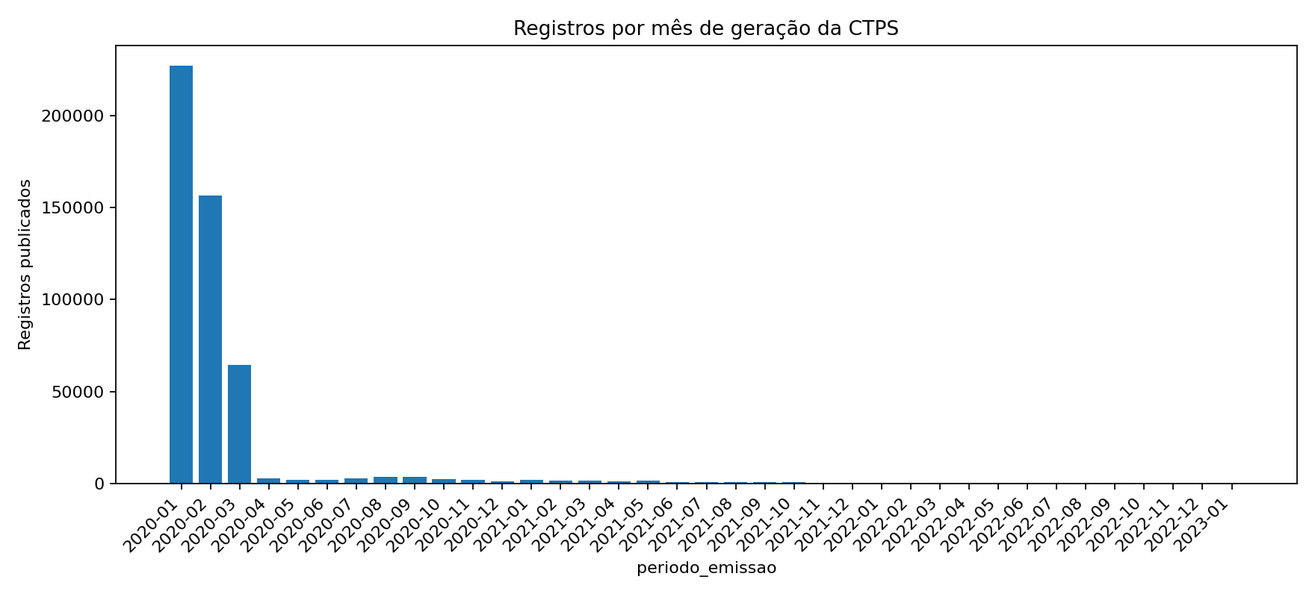
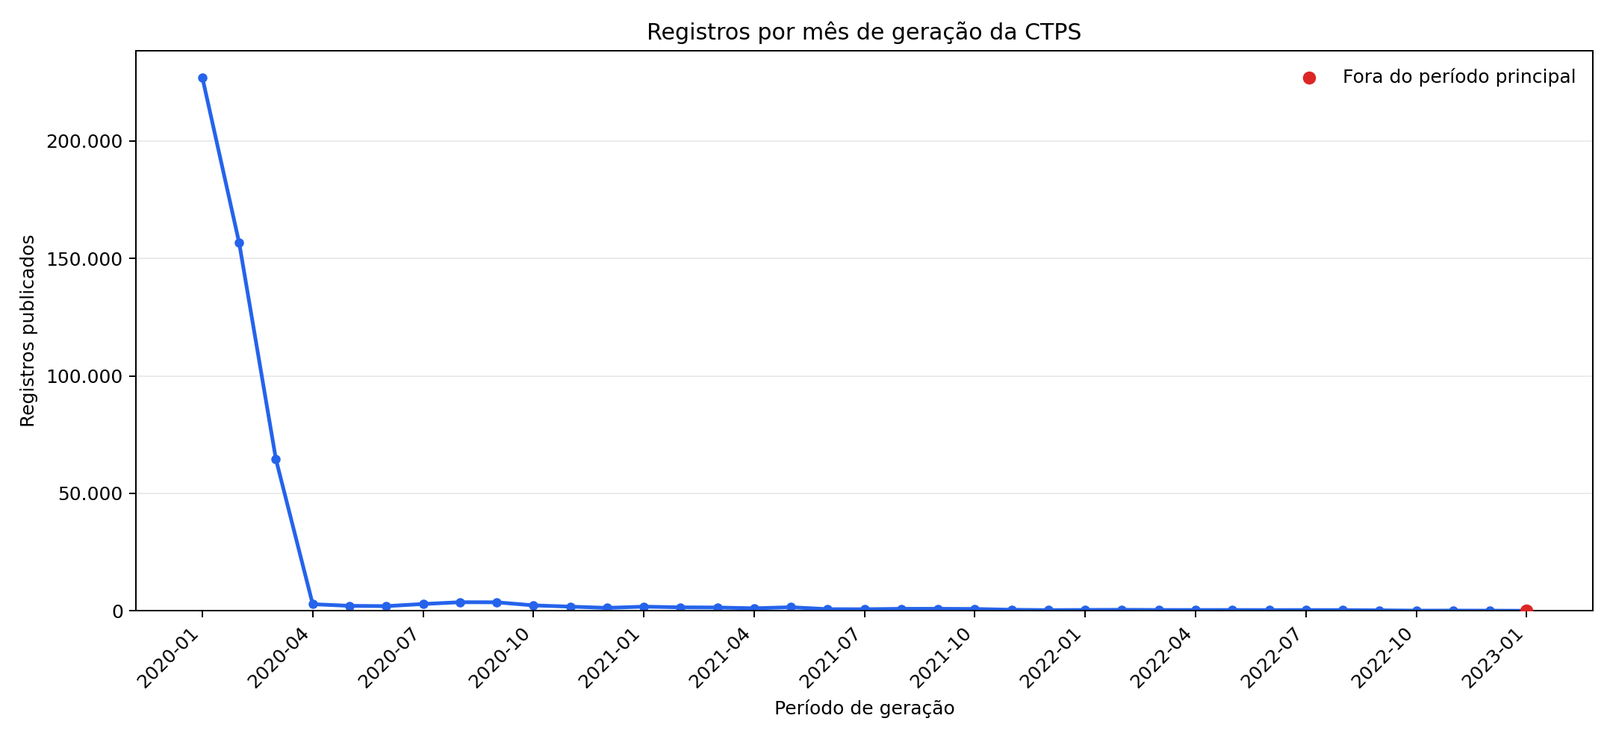
Finalizar apresentacao do portfolio CTPS e especificacao de BI

diff --git a/src/ctps_pipeline.py b/src/ctps_pipeline.py
@@ -7,8 +7,13 @@ import sqlite3
 import urllib.request
 from pathlib import Path
 
+import matplotlib
+
+# Os gráficos são exportados para arquivos, sem dependência de interface gráfica.
+matplotlib.use("Agg")
 import matplotlib.pyplot as plt
 import pandas as pd
+from matplotlib.ticker import FuncFormatter
 
 SOURCE_FILES = {
     "dados_ctps_2020-jan.xlsx": "https://www.gov.br/trabalho-e-emprego/pt-br/servicos/trabalhador/carteira-de-trabalho/ctps-arquivos/dados_ctps_2020-jan.xlsx",
@@ -167,46 +172,87 @@ def make_outputs(clean: pd.DataFrame, output_dir: Path) -> None:
     by_protocol.to_csv(tables / "emissoes_por_protocolo.csv", index=False)
     out_of_scope = clean.loc[out_of_range_mask(clean), ["arquivo_fonte"] + EXPECTED_COLUMNS].copy()
     out_of_scope.to_csv(tables / "emissoes_fora_intervalo.csv", index=False)
-    chart_specs = [
-        (monthly, "emissoes_por_mes.png", "Registros por mês de geração da CTPS", "periodo_emissao"),
-        (by_state.head(10), "top_10_ufs.png", "10 UFs com mais registros", "Sigla UF Órgão"),
-    ]
-    for data, filename, title, x in chart_specs:
-        plt.figure(figsize=(11, 5))
-        plt.bar(data[x].astype(str), data["registros"])
-        plt.title(title)
-        plt.xlabel(x)
-        plt.ylabel("Registros publicados")
-        plt.xticks(rotation=45, ha="right")
-        plt.tight_layout()
-        plt.savefig(figures / filename, dpi=160)
-        plt.close()
-    lines = ["# Observações calculadas", "", "Os números abaixo foram gerados pelo pipeline; são descrições do conjunto publicado e não evidenciam causalidade ou impacto.", ""]
+    number_formatter = FuncFormatter(lambda value, _: f"{int(value):,}".replace(",", "."))
+    plt.style.use("default")
+
+    monthly_periods = pd.to_datetime(monthly["periodo_emissao"], format="%Y-%m", errors="coerce").dt.to_period("M")
+    monthly_x = list(range(len(monthly)))
+    fig, ax = plt.subplots(figsize=(12, 5.5))
+    ax.plot(monthly_x, monthly["registros"], color="#2563eb", marker="o", linewidth=2, markersize=4)
+    out_of_scope_months = ~monthly_periods.between(EXPECTED_PERIOD_START, EXPECTED_PERIOD_END)
+    if out_of_scope_months.any():
+        ax.scatter(
+            [monthly_x[index] for index, value in enumerate(out_of_scope_months) if value],
+            monthly.loc[out_of_scope_months, "registros"],
+            color="#dc2626", zorder=3, label="Fora do período principal",
+        )
+    tick_positions = list(range(0, len(monthly), 3))
+    if monthly_x and monthly_x[-1] not in tick_positions:
+        tick_positions.append(monthly_x[-1])
+    ax.set_xticks(tick_positions)
+    ax.set_xticklabels(monthly.iloc[tick_positions]["periodo_emissao"], rotation=45, ha="right")
+    ax.set_title("Registros por mês de geração da CTPS")
+    ax.set_xlabel("Período de geração")
+    ax.set_ylabel("Registros publicados")
+    ax.set_ylim(bottom=0)
+    ax.yaxis.set_major_formatter(number_formatter)
+    ax.grid(axis="y", alpha=0.25)
+    ax.grid(axis="x", visible=False)
+    if out_of_scope_months.any():
+        ax.legend(frameon=False, loc="upper right")
+    fig.tight_layout()
+    fig.savefig(figures / "emissoes_por_mes.png", dpi=180)
+    plt.close(fig)
+
+    top_states = by_state.head(10).sort_values("registros")
+    fig, ax = plt.subplots(figsize=(10, 5.5))
+    bars = ax.barh(top_states["Sigla UF Órgão"], top_states["registros"], color="#2563eb")
+    ax.bar_label(bars, labels=[f"{int(value):,}".replace(",", ".") for value in top_states["registros"]], padding=4, fontsize=8)
+    ax.set_title("10 UFs com mais registros")
+    ax.set_xlabel("Registros publicados")
+    ax.set_ylabel("UF do órgão")
+    ax.xaxis.set_major_formatter(number_formatter)
+    ax.set_xlim(0, top_states["registros"].max() * 1.18 if not top_states.empty else 1)
+    ax.grid(axis="x", alpha=0.25)
+    ax.grid(axis="y", visible=False)
+    fig.tight_layout()
+    fig.savefig(figures / "top_10_ufs.png", dpi=180)
+    plt.close(fig)
+
+    lines = ["# Observações calculadas", "", "Os números abaixo foram gerados pelo pipeline. São achados descritivos do conjunto publicado; não evidenciam causalidade ou impacto.", "", "## Achados", ""]
     total = len(clean)
     lines.append(f"- Registros preservados: **{total:,}**.")
     lines.append(f"- Registros com o mesmo perfil em todas as colunas de negócio: **{int(clean.duplicated(subset=EXPECTED_COLUMNS).sum()):,}**; eles foram preservados por falta de identificador de atendimento.")
     if not by_state.empty:
         top_uf = by_state.iloc[0]
         top_five_share = by_state.head(5)["registros"].sum() / total
-        lines.append(f"- UF com maior volume no conjunto: **{top_uf['Sigla UF Órgão']}**, com **{int(top_uf['registros']):,}** registros ({int(top_uf['registros']) / total:.1%} do total).")
-        lines.append(f"- As cinco UFs com mais registros concentram **{int(by_state.head(5)['registros'].sum()):,}** linhas ({top_five_share:.1%} do total). Isso descreve a distribuição da publicação, sem indicar causa para a concentração.")
+        lines.append(f"- **Distribuição regional:** {top_uf['Sigla UF Órgão']} concentra **{int(top_uf['registros']):,}** registros ({int(top_uf['registros']) / total:.1%} do total). As cinco UFs com mais registros somam **{int(by_state.head(5)['registros'].sum()):,}** linhas ({top_five_share:.1%}).")
     if not by_protocol.empty:
-        lines.append(f"- Tipo de protocolo mais frequente: **{by_protocol.iloc[0]['Tipo Protocolo']}**, com **{int(by_protocol.iloc[0]['registros']):,}** registros.")
+        lines.append(f"- **Tipo de protocolo:** {by_protocol.iloc[0]['Tipo Protocolo']} é o tipo mais frequente, com **{int(by_protocol.iloc[0]['registros']):,}** registros.")
         for protocol in ["1ª Via", "2ª Via"]:
             match = by_protocol.loc[by_protocol["Tipo Protocolo"].eq(protocol), "registros"]
             if not match.empty:
                 count = int(match.iloc[0])
-                lines.append(f"- **{protocol}** representa **{count:,}** registros ({count / total:.1%}).")
-    monthly_periods = pd.to_datetime(monthly["periodo_emissao"], format="%Y-%m", errors="coerce").dt.to_period("M")
+                lines.append(f"  - {protocol}: **{count:,}** registros ({count / total:.1%}).")
     in_scope_monthly = monthly.loc[monthly_periods.between(EXPECTED_PERIOD_START, EXPECTED_PERIOD_END)].copy()
     if not in_scope_monthly.empty:
         first = in_scope_monthly.iloc[0]
         last = in_scope_monthly.iloc[-1]
         peak = in_scope_monthly.loc[in_scope_monthly["registros"].idxmax()]
-        lines.append(f"- No período de análise, o volume observado foi de **{int(first['registros']):,}** em **{first['periodo_emissao']}** e **{int(last['registros']):,}** em **{last['periodo_emissao']}**; o pico mensal foi **{peak['periodo_emissao']}**, com **{int(peak['registros']):,}** registros.")
+        lines.append(f"- **Evolução observada:** o volume foi de **{int(first['registros']):,}** registros em **{first['periodo_emissao']}** e **{int(last['registros']):,}** em **{last['periodo_emissao']}**; o pico mensal foi **{peak['periodo_emissao']}**, com **{int(peak['registros']):,}** registros.")
+        yearly = in_scope_monthly.groupby(in_scope_monthly["periodo_emissao"].str[:4])["registros"].sum()
+        lines.append("- **Comparação anual por mês de geração:** " + "; ".join(
+            f"{year}: **{int(count):,}** registros" for year, count in yearly.items()
+        ) + ". O registro fora do período principal não entra nesta comparação.")
+        if len(yearly) > 1 and yearly.iloc[0]:
+            change = (yearly.iloc[-1] / yearly.iloc[0] - 1) * 100
+            lines.append(f"- A variação de volume entre {yearly.index[0]} e {yearly.index[-1]} foi de **{change:.2f}%**. É uma comparação dos registros publicados, sem atribuição de causa.")
     if not out_of_scope.empty:
-        lines.append(f"- Há **{len(out_of_scope):,}** registro fora do intervalo de geração 2020-01 a 2022-12: `Data CTPS Gerada = 2023-01`, originado de `dados_ctps_2022.xlsx`. Ele foi preservado e está detalhado em `reports/tables/emissoes_fora_intervalo.csv`.")
-    lines.extend(["", "## Limitações", "", "As variações mensais e regionais são descritivas dos registros administrativos publicados. Não permitem inferir emprego, tamanho do mercado de trabalho, demanda causal ou desempenho de atendimento. `Data Protocolo` tem 15.017 registros anteriores a 2020, enquanto `Data CTPS Gerada` tem um registro em 2023-01; esses valores são preservados e reportados separadamente."])
+        occurrences = out_of_scope.groupby(["Data CTPS Gerada", "arquivo_fonte"]).size()
+        detail = "; ".join(f"`{period}` em `{source}`: {count}" for (period, source), count in occurrences.items())
+        lines.append(f"- **Qualidade de escopo:** **{len(out_of_scope):,}** registro(s) fora de {EXPECTED_PERIOD_START} a {EXPECTED_PERIOD_END}: {detail}. Preservados em [emissoes_fora_intervalo.csv](tables/emissoes_fora_intervalo.csv).")
+    protocol_before = int((clean[date_column_name("Data Protocolo")].dt.to_period("M") < EXPECTED_PERIOD_START).sum())
+    lines.extend(["", "## Possíveis interpretações e limites", "", "- Os resultados mostram como os registros administrativos publicados se distribuem por tempo, UF e protocolo. Não permitem explicar as causas das variações.", "- As mudanças mensais não devem ser interpretadas como evolução do emprego, do mercado de trabalho ou de demanda causal.", f"- `Data Protocolo` tem {protocol_before:,} registros anteriores ao período principal. Essa data histórica é distinta do mês de geração; as ocorrências foram preservadas e reportadas separadamente.", "- Totais e participações incluem todos os registros; apenas a comparação temporal principal usa 2020–2022. A UF é a do órgão emissor, não necessariamente a residência do titular."])
     (reports / "insights.md").write_text("\n".join(lines) + "\n", encoding="utf-8")
 
 

diff --git a/powerbi/PowerQuery.m b/powerbi/PowerQuery.m
@@ -1,5 +1,6 @@
 let
-    Source = Csv.Document(File.Contents("data/processed/ctps_emissoes.csv"), [Delimiter=",", Encoding=65001, QuoteStyle=QuoteStyle.Csv]),
+    // Crie o parâmetro de texto CaminhoCSV no Desktop com o caminho do CSV gerado.
+    Source = Csv.Document(File.Contents(CaminhoCSV), [Delimiter=",", Encoding=65001, QuoteStyle=QuoteStyle.Csv]),
     Headers = Table.PromoteHeaders(Source, [PromoteAllScalars=true]),
     Types = Table.TransformColumnTypes(Headers, {{"data_protocolo_date", type date}, {"data_ctps_gerada_date", type date}, {"data_emissão_date", type date}, {"data_nascimento_date", type date}, {"ano_emissao", Int64.Type}, {"mes_emissao", Int64.Type}, {"registro_id", type text}}, "en-US")
 in

diff --git a/tests/test_integration.py b/tests/test_integration.py
@@ -23,10 +23,10 @@ def test_pipeline_with_local_official_sources():
     if manifest_path is None:
         pytest.fail("Manifest local não encontrado ao lado das fontes oficiais.")
     validate_manifest(manifest_path, source_dir)
-    output_dir = Path.cwd() / ".pytest-local" / uuid4().hex / "processed"
+    output_dir = Path.cwd() / ".pytest-local" / uuid4().hex / "data" / "processed"
     try:
         report = run(source_dir, output_dir)
         assert report["input_rows"] == report["output_rows"]
         assert report["out_of_range_emission_records"] == 1
     finally:
-        shutil.rmtree(output_dir.parent, ignore_errors=True)
+        shutil.rmtree(output_dir.parent.parent, ignore_errors=True)

diff --git a/README.md b/README.md
@@ -1,59 +1,100 @@
 # Emissões de CTPS no Brasil — 2020 a 2022
 
-Análise exploratória das emissões de Carteira de Trabalho e Previdência Social (CTPS) disponibilizadas pelo Ministério do Trabalho e Emprego (MTE).
+Análise descritiva e reproduzível dos registros públicos de emissão de Carteira de Trabalho e Previdência Social (CTPS), publicada pelo Ministério do Trabalho e Emprego (MTE).
 
-O projeto foi reconstruído para responder perguntas descritivas sobre volume de emissões, distribuição regional, tipo de protocolo e perfil informado no atendimento. O foco é demonstrar um fluxo reproduzível com Python, pandas, SQL e Power BI.
+## Visão geral
 
-## Contexto e limites
+O projeto examina como os registros publicados se distribuem por mês, UF e tipo de protocolo. O fluxo permite conferir a qualidade dos dados e acompanhar a composição do volume registrado.
 
-As bases públicas registram atendimentos e emissões de CTPS física em arquivos mensais e anuais do MTE. Elas permitem observar a distribuição dos registros publicados na fonte, mas não representam diretamente contratações, desemprego ou toda a força de trabalho brasileira.
+- **Fonte:** [estatísticas oficiais da CTPS](https://www.gov.br/trabalho-e-emprego/pt-br/servicos/trabalhador/carteira-de-trabalho/estatisticas)
+- **Período principal:** `Data CTPS Gerada` entre `2020-01` e `2022-12`
+- **Registros preservados:** 485.430, sem remoção de linhas repetidas
+- **Tecnologias:** Python, pandas, matplotlib, SQLite, SQL e especificação de Power BI
 
-As perguntas do projeto são: como os registros se distribuem por mês de geração; quais estados e órgãos concentram mais registros; qual é a composição por primeira e segunda via; e como aparecem sexo, escolaridade e cidadania.
+## Principais resultados
 
-Fonte oficial: [página de estatísticas da CTPS do MTE](https://www.gov.br/trabalho-e-emprego/pt-br/servicos/trabalhador/carteira-de-trabalho/estatisticas).
+Os valores abaixo são calculados pelo pipeline e podem ser conferidos em [`reports/insights.md`](reports/insights.md) e nas tabelas geradas. Totais e participações incluem todos os arquivos, inclusive a ocorrência de janeiro de 2023.
 
-Os arquivos brutos não são versionados. O download é reproduzível e os checksums ficam registrados em `data/source_manifest.json`. O pipeline preserva as 485.430 linhas publicadas nos cinco arquivos. Linhas com o mesmo conjunto de atributos não são removidas automaticamente: sem identificador de atendimento não é possível afirmar que sejam duplicatas indevidas.
+- Foram preservados **485.430 registros** dos cinco arquivos oficiais.
+- **1ª Via:** 351.527 registros (**72,4%**); **2ª Via:** 133.903 (**27,6%**).
+- **MG** foi a UF com maior volume, com 81.791 registros (**16,8%**); as cinco UFs líderes somam 299.077 (**61,6%**).
+- O maior volume mensal ocorreu em **2020-01**, com 227.013 registros; em **2022-12** foram observados 62.
+- Existe **1 registro com `Data CTPS Gerada = 2023-01`** na fonte `dados_ctps_2022.xlsx`. Ele foi preservado e sinalizado como fora do período principal.
 
-O escopo temporal da série principal usa `Data CTPS Gerada` entre 2020-01 e 2022-12. A fonte `dados_ctps_2022.xlsx` contém uma linha com `Data CTPS Gerada = 2023-01` (linha 552 no arquivo oficial); ela foi preservada, sinalizada no relatório de qualidade e incluída em `reports/tables/emissoes_fora_intervalo.csv`. A linha registra protocolo e emissão em 2022-12, protocolo `2ª Via`, órgão `SRTE/AC - Rio Branco` e UF `AC`. Além disso, 15.017 registros têm `Data Protocolo` anterior a 2020, informação histórica do atendimento que não é usada para recortar a série de geração.
+## Visualizações
 
-## Estrutura
+### Evolução mensal
+
+![Registros por mês de geração da CTPS](reports/figures/emissoes_por_mes.png)
+
+### Distribuição por UF
+
+![Dez UFs com mais registros](reports/figures/top_10_ufs.png)
+
+## Pipeline
 
 ```text
-data/raw/                 # arquivos baixados; ignorados pelo Git
-data/processed/           # CSV, SQLite e relatório de qualidade gerados
-reports/figures/          # gráficos gerados
-reports/tables/           # tabelas agregadas geradas
-powerbi/                  # Power Query, medidas DAX e modelo
-scripts/download_source.py
-sql/analises.sql
-src/ctps_pipeline.py
-tests/test_pipeline.py       # testes unitários
-tests/test_integration.py    # teste opcional com fontes locais
+Fonte oficial
+    ↓
+Download e manifest SHA-256
+    ↓
+Validação de arquivos e esquema
+    ↓
+Transformação com pandas
+    ↓
+CSV processado e SQLite
+    ↓
+Consultas SQL e agregações
+    ↓
+Tabelas, gráficos e insights
+    ↓
+Especificação para Power BI
 ```
 
-## Como executar
+O código principal está em [`src/ctps_pipeline.py`](src/ctps_pipeline.py). As consultas analíticas estão em [`sql/analises.sql`](sql/analises.sql). O relatório de qualidade fica em `data/processed/quality_report.json` após a execução.
 
-Use Python 3.11 ou superior.
+## Decisões metodológicas
+
+- **Registros repetidos:** linhas com o mesmo conjunto de atributos de negócio foram preservadas. A fonte não fornece um identificador de atendimento ou de pessoa que permita classificá-las como duplicatas indevidas.
+- **Registro `2023-01`:** o valor existe em `dados_ctps_2022.xlsx`, com protocolo e emissão em `2022-12`. Foi mantido para não alterar a fonte silenciosamente e está detalhado em [`reports/tables/emissoes_fora_intervalo.csv`](reports/tables/emissoes_fora_intervalo.csv).
+- **Datas de protocolo:** 15.017 protocolos são anteriores a 2020. Eles representam histórico do atendimento e não são usados para recortar a série principal, baseada em `Data CTPS Gerada`.
+- **Interpretação:** emissão de CTPS é um registro administrativo. Não mede contratação, desemprego, pessoas únicas ou causalidade econômica.
+- **Arquivos brutos:** não são versionados por tamanho e por serem obtidos de fonte pública; o download é reproduzível pelo manifest e seus hashes.
+
+## Tecnologias
+
+Python 3.11+, pandas, matplotlib, openpyxl, SQLite, SQL e Power BI (Power Query e DAX documentados).
+
+## Como reproduzir
 
 ```bash
 python -m venv .venv
-# Windows PowerShell
+```
+
+No Windows PowerShell:
+
+```powershell
 .\.venv\Scripts\Activate.ps1
 pip install -r requirements.txt
-
 python scripts/download_source.py
 python -m src.ctps_pipeline --source-dir data/raw --output-dir data/processed
 pytest
+$env:CTPS_SOURCE_DIR = "data/raw"
+pytest -m integration
 ```
 
-O pipeline gera `data/processed/ctps_emissoes.csv`, `data/processed/ctps_emissoes.sqlite`, `data/processed/quality_report.json`, tabelas agregadas, gráficos e `reports/insights.md`.
+O pipeline gera o CSV e SQLite processados, `quality_report.json`, tabelas agregadas, gráficos e `reports/insights.md`. Os testes unitários ficam em `tests/test_pipeline.py`; o teste de integração usa fontes locais quando `CTPS_SOURCE_DIR` está definido.
 
 ## SQL e Power BI
 
-As consultas em `sql/analises.sql` usam SQLite e partem da tabela `ctps_emissoes`. O diretório `powerbi/` contém a especificação do modelo proposto, o script de Power Query, as medidas DAX e a especificação das páginas do dashboard. Ainda não existe um arquivo `.pbix`: o dashboard real será montado posteriormente no Power BI Desktop. Portanto, esses arquivos descrevem uma entrega planejada e reproduzível, não um painel já publicado.
+[`sql/analises.sql`](sql/analises.sql) consulta a tabela `ctps_emissoes` no SQLite. Em [`powerbi/`](powerbi/) estão:
 
-## Interpretação
+- [`PowerQuery.m`](powerbi/PowerQuery.m), para importar e tipar o CSV;
+- [`medidas.dax`](powerbi/medidas.dax), com medidas explícitas;
+- [`modelo.md`](powerbi/modelo.md) e [`dashboard_spec.md`](powerbi/dashboard_spec.md), com o modelo e as páginas propostas.
 
-As conclusões descrevem os registros publicados pelo MTE. A base não contém um identificador de pessoa ou de atendimento que permita medir pessoas únicas, reincidência, conversão em emprego ou causalidade. Datas são mensais; há categorias históricas e mudanças de preenchimento entre arquivos. Recomendações devem ser apresentadas como uso potencial para acompanhamento da demanda registrada, sem alegar economia de recursos ou melhoria de empregabilidade.
+Ainda não existe um arquivo `.pbix`. O dashboard real será construído posteriormente no Power BI Desktop; a documentação atual é uma especificação de implementação, não uma entrega concluída.
 
-Status: pipeline reconstruído e validado com os arquivos oficiais disponíveis na página do MTE em 27/09/2026.
+## Limitações
+
+As datas têm granularidade mensal e os arquivos podem ter diferenças históricas de preenchimento. Não há identificador de pessoa ou atendimento, portanto não é possível medir pessoas únicas ou reincidência. As comparações descrevem os registros publicados pelo MTE e não devem ser usadas como estimativa de emprego, desemprego, tamanho de mercado ou impacto de política pública.

diff --git a/reports/insights.md b/reports/insights.md
@@ -1,17 +1,23 @@
 # Observações calculadas
 
-Os números abaixo foram gerados pelo pipeline; são descrições do conjunto publicado e não evidenciam causalidade ou impacto.
+Os números abaixo foram gerados pelo pipeline. São achados descritivos do conjunto publicado; não evidenciam causalidade ou impacto.
+
+## Achados
 
 - Registros preservados: **485,430**.
 - Registros com o mesmo perfil em todas as colunas de negócio: **25,844**; eles foram preservados por falta de identificador de atendimento.
-- UF com maior volume no conjunto: **MG**, com **81,791** registros (16.8% do total).
-- As cinco UFs com mais registros concentram **299,077** linhas (61.6% do total). Isso descreve a distribuição da publicação, sem indicar causa para a concentração.
-- Tipo de protocolo mais frequente: **1ª Via**, com **351,527** registros.
-- **1ª Via** representa **351,527** registros (72.4%).
-- **2ª Via** representa **133,903** registros (27.6%).
-- No período de análise, o volume observado foi de **227,013** em **2020-01** e **62** em **2022-12**; o pico mensal foi **2020-01**, com **227,013** registros.
-- Há **1** registro fora do intervalo de geração 2020-01 a 2022-12: `Data CTPS Gerada = 2023-01`, originado de `dados_ctps_2022.xlsx`. Ele foi preservado e está detalhado em `reports/tables/emissoes_fora_intervalo.csv`.
+- **Distribuição regional:** MG concentra **81,791** registros (16.8% do total). As cinco UFs com mais registros somam **299,077** linhas (61.6%).
+- **Tipo de protocolo:** 1ª Via é o tipo mais frequente, com **351,527** registros.
+  - 1ª Via: **351,527** registros (72.4%).
+  - 2ª Via: **133,903** registros (27.6%).
+- **Evolução observada:** o volume foi de **227,013** registros em **2020-01** e **62** em **2022-12**; o pico mensal foi **2020-01**, com **227,013** registros.
+- **Comparação anual por mês de geração:** 2020: **470,560** registros; 2021: **11,707** registros; 2022: **3,162** registros. O registro fora do período principal não entra nesta comparação.
+- A variação de volume entre 2020 e 2022 foi de **-99.33%**. É uma comparação dos registros publicados, sem atribuição de causa.
+- **Qualidade de escopo:** **1** registro(s) fora de 2020-01 a 2022-12: `2023-01` em `dados_ctps_2022.xlsx`: 1. Preservados em [emissoes_fora_intervalo.csv](tables/emissoes_fora_intervalo.csv).
 
-## Limitações
+## Possíveis interpretações e limites
 
-As variações mensais e regionais são descritivas dos registros administrativos publicados. Não permitem inferir emprego, tamanho do mercado de trabalho, demanda causal ou desempenho de atendimento. `Data Protocolo` tem 15.017 registros anteriores a 2020, enquanto `Data CTPS Gerada` tem um registro em 2023-01; esses valores são preservados e reportados separadamente.
+- Os resultados mostram como os registros administrativos publicados se distribuem por tempo, UF e protocolo. Não permitem explicar as causas das variações.
+- As mudanças mensais não devem ser interpretadas como evolução do emprego, do mercado de trabalho ou de demanda causal.
+- `Data Protocolo` tem 15,017 registros anteriores ao período principal. Essa data histórica é distinta do mês de geração; as ocorrências foram preservadas e reportadas separadamente.
+- Totais e participações incluem todos os registros; apenas a comparação temporal principal usa 2020–2022. A UF é a do órgão emissor, não necessariamente a residência do titular.

diff --git a/powerbi/dashboard_spec.md b/powerbi/dashboard_spec.md
@@ -1,0 +1,37 @@
+# Especificação do dashboard
+
+Esta é uma especificação para implementação posterior no Power BI Desktop. Não há um arquivo `.pbix` neste repositório.
+
+## Página 1 — Visão Geral
+
+**Objetivo:** mostrar o volume publicado e sua evolução. Por padrão, incluir todos os registros para conciliar com o README; oferecer o recorte 2020–2022 e identificar a exceção de 2023.
+
+- **Cartões:** `[Registros publicados]`, `[Primeira via]`, `[Segunda via]`, `[Percentual primeira via]`.
+- **Linha temporal:** eixo `periodo_emissao`, valor `[Registros publicados]`.
+- **Composição:** coluna ou barra empilhada por `Tipo Protocolo`, usando `[Registros publicados]`.
+- **Filtros:** `ano_emissao`, `mes_emissao` e `Tipo Protocolo`.
+- **Observação:** destacar o registro `2023-01` como fora do período principal, sem removê-lo da tabela fato.
+
+## Página 2 — Análise Regional
+
+**Objetivo:** comparar a distribuição dos registros por UF e órgão.
+
+- **Cartões:** `[Registros publicados]` e `[UFs com registros]`.
+- **Barras horizontais:** `Sigla UF Órgão`, valor `[Registros publicados]`, ordenadas de forma decrescente.
+- **Detalhamento:** `Nome Órgão` e `Nome Município Órgão` em uma tabela ou drill-through, com `[Registros publicados]`.
+- **Filtros:** `Sigla UF Órgão`, `Nome Órgão` e período.
+- **Leitura:** a concentração regional é descritiva da publicação administrativa; não indica causa ou desempenho.
+
+## Página 3 — Perfil dos Registros
+
+**Objetivo:** explorar os atributos informados no atendimento sem tratar categorias como características de pessoas únicas.
+
+- **Cartões:** `[Registros publicados]`, `[Primeira via]`, `[Segunda via]` e `[Registros com perfil repetido]`.
+- **Barras:** `Sexo`, `Nível Escolaridade`, `Raça e Cor`, `Estado Civil` e `Tipo Cidadania`, sempre com `[Registros publicados]`.
+- **Tabela agregada de contexto:** dimensões `Tipo CTPS` e `Descrição Nacionalidade`, com `[Registros publicados]`.
+- **Filtros:** `Tipo Protocolo`, `Sigla UF Órgão`, ano e mês.
+- **Leitura:** os campos descrevem o preenchimento dos registros publicados e podem refletir categorias históricas da fonte.
+
+## Medidas
+
+As medidas usadas nas páginas estão em [`medidas.dax`](medidas.dax). A tabela fato é `ctps_emissoes`; as dimensões podem ser derivadas no Power Query ou no próprio modelo. Recomenda-se relacionamento unidirecional das dimensões para a fato e nenhum relacionamento bidirecional sem necessidade analítica explícita.

diff --git a/powerbi/modelo.md b/powerbi/modelo.md
@@ -2,10 +2,14 @@
 
 Este diretório ainda não contém um arquivo `.pbix`. Ele documenta o modelo proposto, a consulta Power Query, as medidas DAX e as páginas planejadas para implementação posterior no Power BI Desktop.
 
+No Desktop, crie o parâmetro de texto `CaminhoCSV` apontando para o CSV processado e importe `PowerQuery.m` como a consulta `ctps_emissoes`. As datas convertidas usam o dia 1 como representação técnica do mês, sem precisão diária. Crie cada medida de `medidas.dax` separadamente; formate a participação como percentual. Power Query e DAX foram revisados estaticamente e ainda precisam ser executados no Desktop.
+
+Sem filtros, os cartões devem mostrar 485.430 registros, 351.527 de primeira via e 133.903 de segunda via. A medida de perfis repetidos conta as linhas excedentes por combinação das 18 colunas de negócio, como o relatório Python: 25.844 sem filtros. `registro_id` é um hash de atributos, não uma chave única de atendimento.
+
 `ctps_emissoes` tem uma linha para cada registro publicado nos arquivos oficiais. O modelo não afirma que cada linha represente uma pessoa única.
 
 Para a primeira versão, a tabela fato é `ctps_emissoes`. As dimensões podem ser derivadas no Power Query ou no modelo: `DimPeriodo` (período, ano e mês), `DimUF` (UF e município do órgão), `DimProtocolo` e `DimPerfil` (sexo, escolaridade, raça/cor, estado civil e cidadania).
 
 Use relações unidirecionais de dimensões para a fato e medidas explícitas em DAX. A escolha segue a orientação oficial sobre modelo em estrela: [Microsoft Learn](https://learn.microsoft.com/power-bi/guidance/star-schema).
 
-Páginas sugeridas: visão geral, demanda regional, perfil dos registros e qualidade/cobertura. O painel deve deixar claro que os números descrevem a publicação administrativa, não contratação ou impacto causal.
+As páginas propostas estão detalhadas em [`dashboard_spec.md`](dashboard_spec.md): Visão Geral, Análise Regional e Perfil dos Registros. O painel deve deixar claro que os números descrevem a publicação administrativa, não contratação ou impacto causal.
